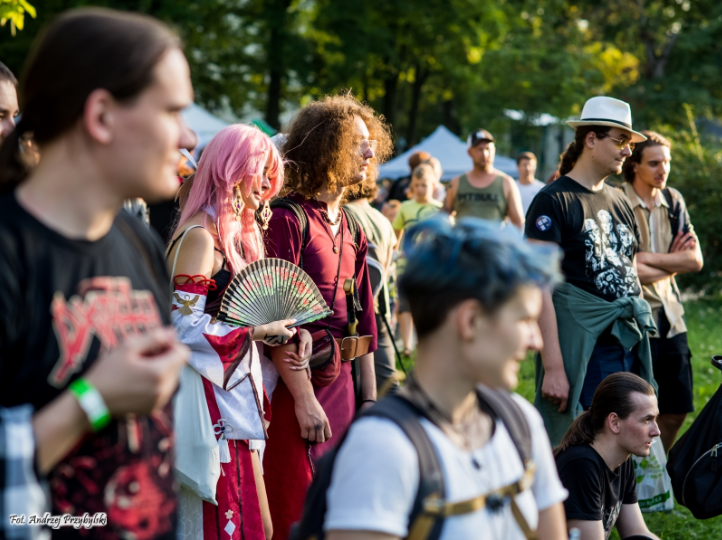
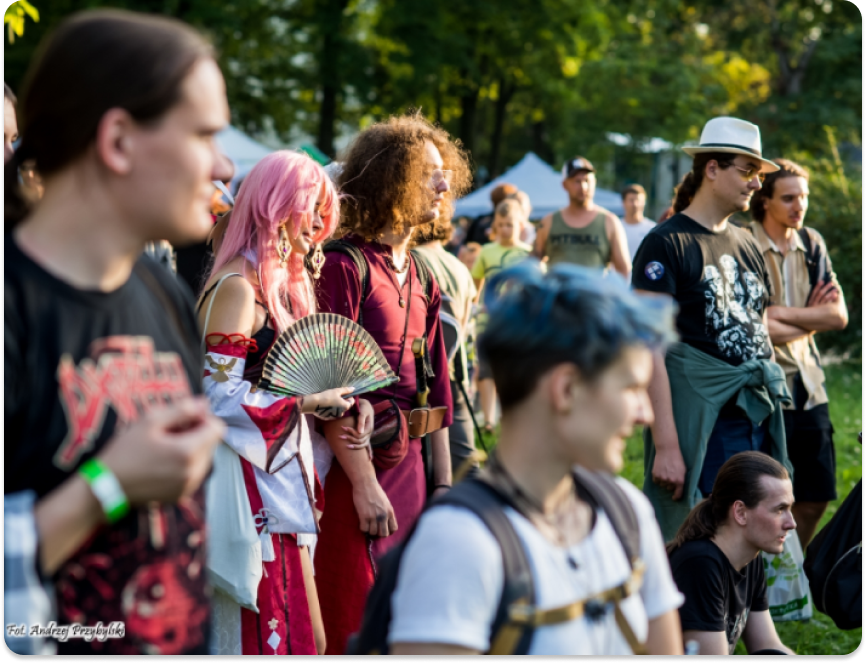
Adjust styling for projects section

diff --git a/layouts/index.html b/layouts/index.html
@@ -16,20 +16,20 @@
                 <picture>
                     {{ $image := resources.Get "images/projekt_df.png" }}
                     {{ with $image }}
-                    <img src="{{ .RelPermalink }}" class="header-image" alt="Gildia organizatorów logo">
+                    <img src="{{ .RelPermalink }}" class="landing-page-projects-image" alt="Gildia organizatorów logo">
                     {{ end }}
                 </picture>
-                <figcaption>DNI FANTASTYKI</figcaption>
+                <figcaption>Dni Fantastyki</figcaption>
             </figure>
 
             <figure>
                 <picture>
                     {{ $image := resources.Get "images/projekt_lesnica_park.png" }}
                     {{ with $image }}
-                    <img src="{{ .RelPermalink }}" class="header-image" alt="Gildia organizatorów logo">
+                    <img src="{{ .RelPermalink }}" class="landing-page-projects-image" alt="Gildia organizatorów logo">
                     {{ end }}
                 </picture>
-                <figcaption>PARK ESK W LEŚNICY</figcaption>
+                <figcaption>Park ESK w Leśnicy</figcaption>
             </figure>
         </div>
     </div>

diff --git a/assets/css/main.css b/assets/css/main.css
@@ -124,12 +124,40 @@ footer>div {
 
     flex-wrap: wrap;
 
-    justify-content: space-around;
+    justify-content: space-between;
     align-items: center;
+    flex-direction: column;
+}
+
+.landing-page-projects-container figure {
+    width: 100%;
+    margin: 0;
 }
 
 .landing-page-projects-container img {
-    max-height: 360px;
+    width: 100%;
+    border-radius: 20px;
+}
+
+.landing-page-projects-container figcaption {
+    padding-top: 12px;
+    text-transform: uppercase;
+
+}
+
+@media (min-width: 768px) {
+    .landing-page-projects-container {
+        flex-direction: row;
+    }
+
+    .landing-page-projects-container figure {
+        width: 48%;
+    }
+
+    .landing-page-projects-container figcaption {
+        padding-top: 32px;
+
+    }
 }
 
 .footer-container {
